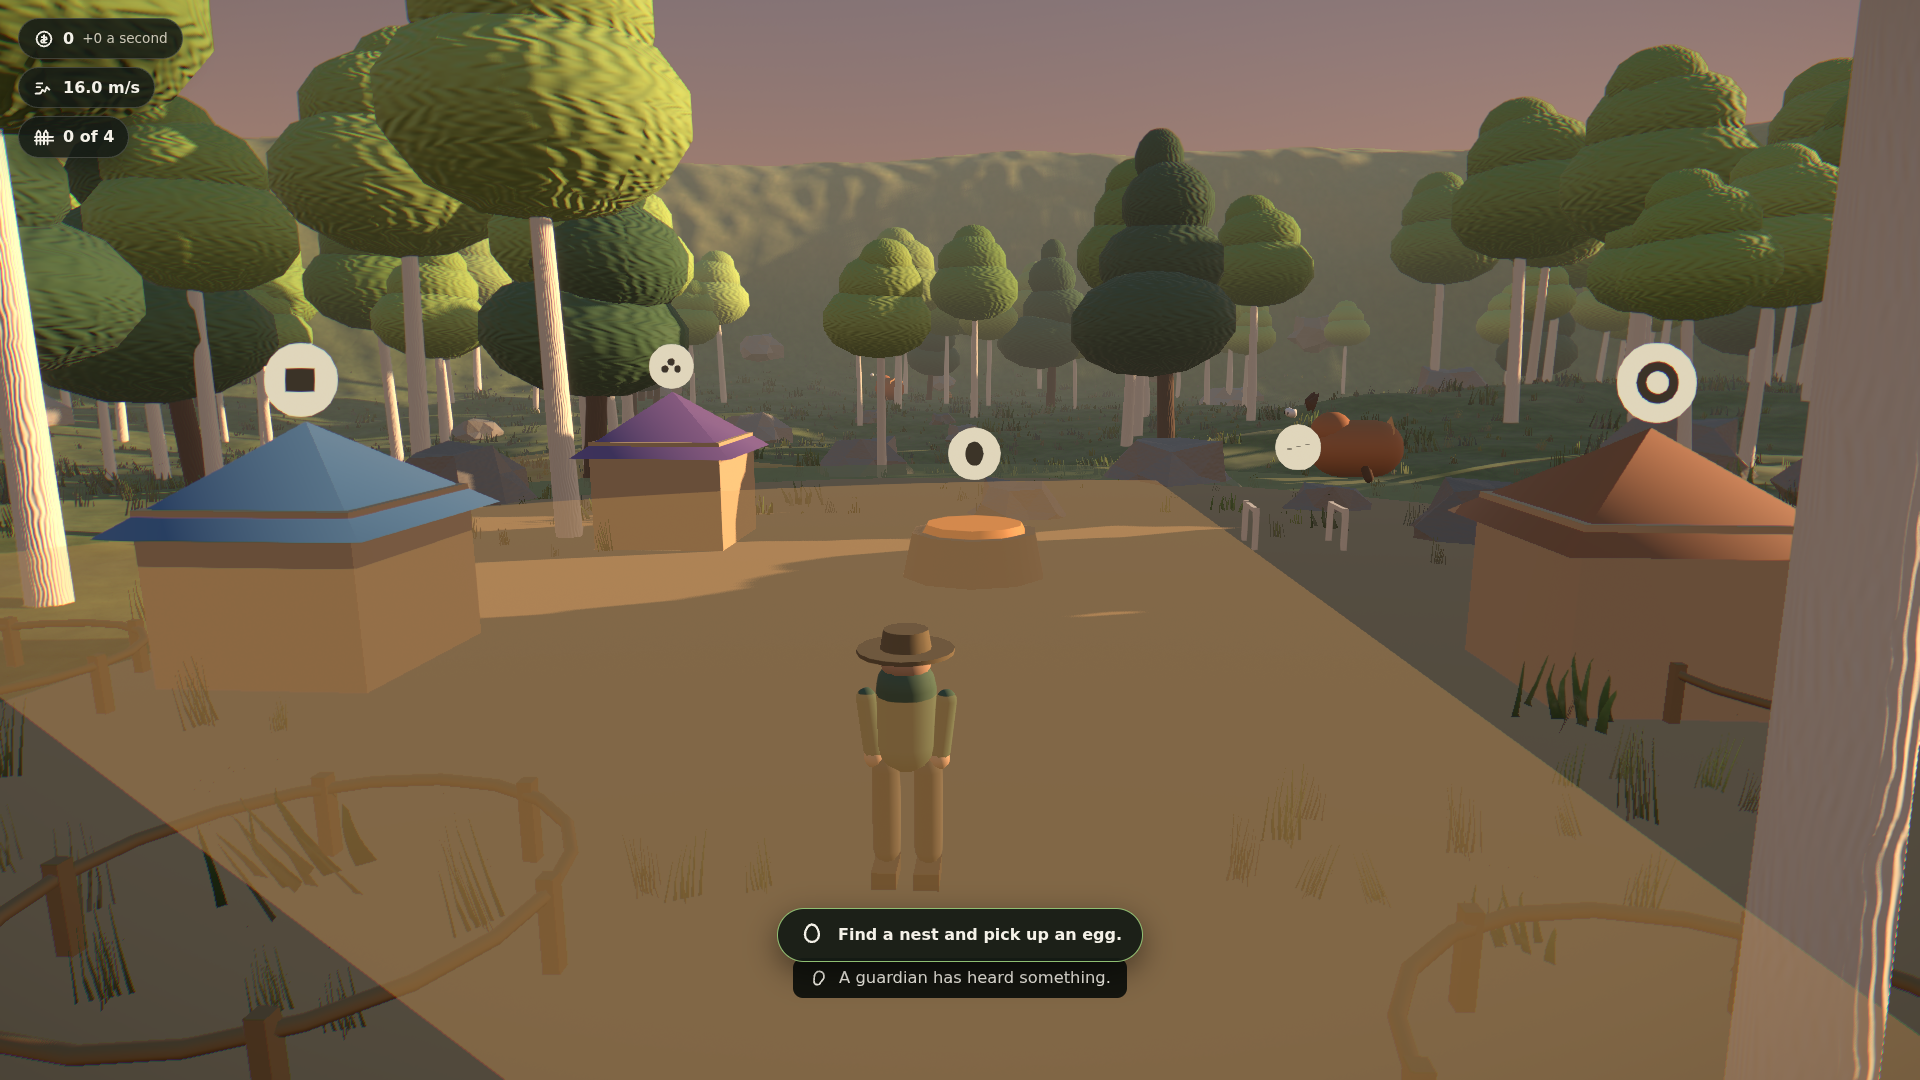
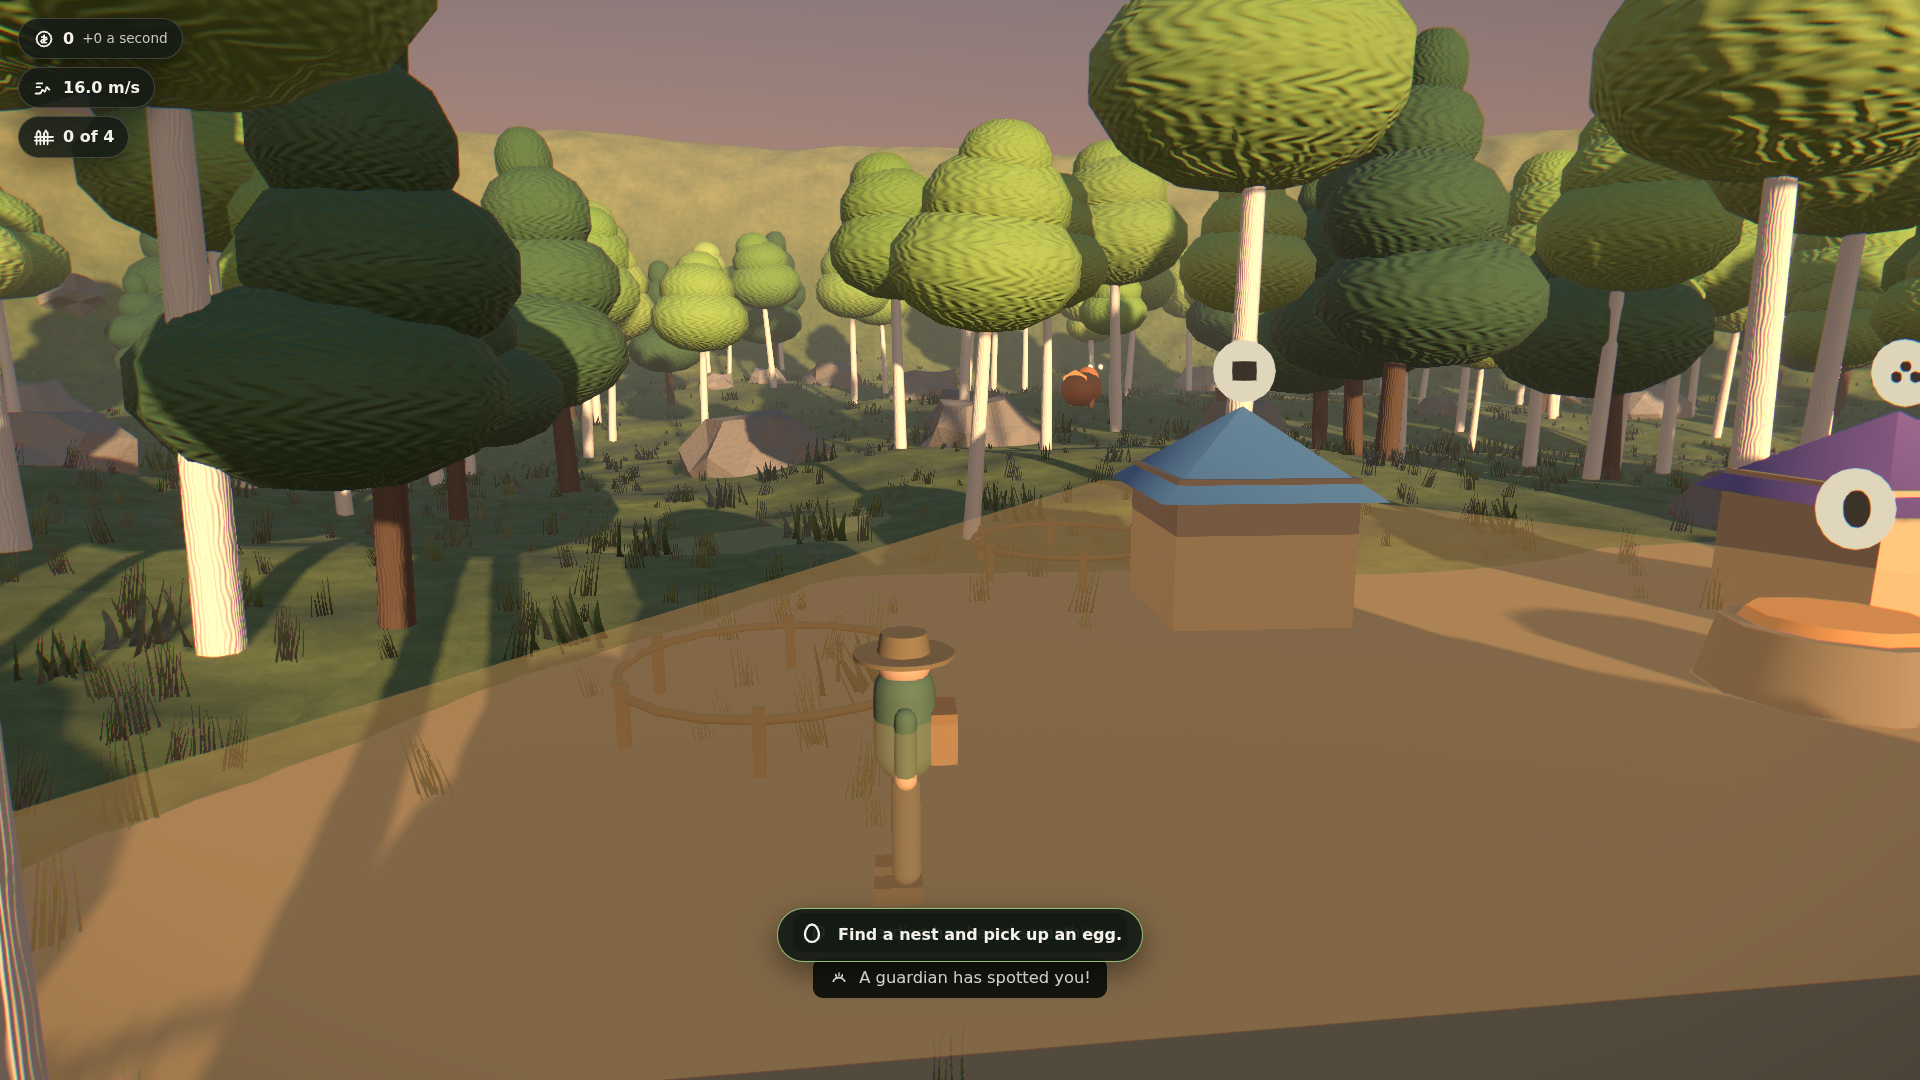
fix(render): read the screenshots and act on them
Ultra was flatter and milkier than High, which is the wrong way round
for the top preset. God rays screen-blend with an unclamped maximum, and
at dawn the sun is usually behind the camera -- which is exactly when
the shafts are worth having -- so with no visible source to radiate from
the effect laid a flat veil over the whole frame instead. Clamped well
under one it does what it is for and leaves the rest of the image alone.

The ranger's trousers were close enough in value to his hands that under
a low sun the whole lower body read as a single pale column. Darker
cloth, a wider stance, slightly bigger boots.

Also gave the screenshots their own timeout. The thirty-second action
timeout added so a missing element fails fast is shorter than a single
1080p Ultra frame takes to rasterise in software, which turned the one
legitimately slow call in the suite into a failure.

Claude-Session: https://claude.ai/code/session_01S8vggPtgU2EjQxnnYdffEr

diff --git a/src/render/player/PlayerAvatar.tsx b/src/render/player/PlayerAvatar.tsx
@@ -19,7 +19,10 @@ import { playerRef } from './playerRuntime';
 
 const SKIN = '#c9a183';
 const COAT = '#4f6b52';
-const TROUSER = '#5a5346';
+// Dark enough to stay a separate shape from the skin under a low sun. At
+// #5a5346 the legs washed out to the same value as the hands in dawn light and
+// the whole lower body read as one pale column.
+const TROUSER = '#3f3a30';
 const PACK = '#8a6a44';
 
 export function PlayerAvatar(): React.ReactElement {
@@ -114,23 +117,23 @@ export function PlayerAvatar(): React.ReactElement {
     <group ref={root}>
       <group ref={hips} position={[0, 0.72, 0]}>
         {/* Legs */}
-        <group ref={legL} position={[-0.11, 0, 0]}>
+        <group ref={legL} position={[-0.135, 0, 0]}>
           <mesh position={[0, -0.3, 0]} castShadow>
             <capsuleGeometry args={[0.075, 0.44, 4, 10]} />
             <meshStandardMaterial color={TROUSER} roughness={0.85} />
           </mesh>
           <mesh position={[0, -0.63, 0.04]} castShadow>
-            <boxGeometry args={[0.13, 0.09, 0.24]} />
+            <boxGeometry args={[0.15, 0.1, 0.26]} />
             <meshStandardMaterial color="#3a3128" roughness={0.7} />
           </mesh>
         </group>
-        <group ref={legR} position={[0.11, 0, 0]}>
+        <group ref={legR} position={[0.135, 0, 0]}>
           <mesh position={[0, -0.3, 0]} castShadow>
             <capsuleGeometry args={[0.075, 0.44, 4, 10]} />
             <meshStandardMaterial color={TROUSER} roughness={0.85} />
           </mesh>
           <mesh position={[0, -0.63, 0.04]} castShadow>
-            <boxGeometry args={[0.13, 0.09, 0.24]} />
+            <boxGeometry args={[0.15, 0.1, 0.26]} />
             <meshStandardMaterial color="#3a3128" roughness={0.7} />
           </mesh>
         </group>

diff --git a/tests/e2e/shots.spec.ts b/tests/e2e/shots.spec.ts
@@ -55,7 +55,16 @@ for (const preset of ['low', 'medium', 'high', 'ultra'] as const) {
     await stopMoving(page);
     await settle(page, 10);
 
-    const buffer = await page.screenshot({ path: `${SHOTS}/glade-${preset}.png` });
+    /*
+     * Its own timeout. The suite sets a thirty-second action timeout so a
+     * locator for a missing element fails fast, but a single 1080p frame at
+     * Ultra takes longer than that to rasterise in software -- this is the one
+     * place where a slow call is the expected behaviour rather than a hang.
+     */
+    const buffer = await page.screenshot({
+      path: `${SHOTS}/glade-${preset}.png`,
+      timeout: 300_000,
+    });
     const s = await sample(page);
     // eslint-disable-next-line no-console
     console.log(
@@ -79,7 +88,10 @@ for (const biome of ['glade', 'mirrormere', 'dunes'] as const) {
     await stopMoving(page);
     await settle(page, 10);
 
-    const buffer = await page.screenshot({ path: `${SHOTS}/biome-${biome}.png` });
+    const buffer = await page.screenshot({
+      path: `${SHOTS}/biome-${biome}.png`,
+      timeout: 300_000,
+    });
     expect(buffer.length, 'the frame looks empty').toBeGreaterThan(60_000);
     expect(errors, `console errors in ${biome}: ${errors.join(' | ')}`).toEqual([]);
   });

diff --git a/DECISIONS.md b/DECISIONS.md
@@ -264,6 +264,95 @@ This is the failure mode I most wanted to avoid on this project — a green test
 measuring something the game does not do — and it took an end-to-end test
 walking the actual world to catch it. Worth the cost of writing that test.
 
+## Running the gates against the real build
+
+Every one of these was found in the same afternoon, by the same act: making
+the end-to-end suite build the code it was about to test, and then actually
+running all of it rather than the two specs that were quick.
+
+### The store's clock was never wound
+
+`tick` in `state/store.ts` owns the incubator countdown, accrued play time,
+passive donations from placed creatures, caption expiry and the forty-five
+minute break reminder. It was defined, exported through the store's type, and
+called by nothing at all. Five features, all inert, none of them failing
+loudly — an incubator that never finishes just looks like an incubator you
+have not waited long enough for.
+
+A `StoreClock` in the render tree drives it now, with the delta clamped so a
+backgrounded tab cannot hand the incubator a minute of progress. The loop gate
+asserts that the number on screen actually moves, which is the assertion that
+was missing.
+
+### Nothing stood between the spawn and the first nest except everything
+
+The incubator sat at x=0, z=−1.5. Its own comment explained that it was placed
+there "so a child carrying their first egg home walks straight into it". They
+did — on the way _out_, at z=−0.55, where its collider stopped them dead.
+
+Moving it aside uncovered the next wall: a tree on the axis at z=−5.1. The
+foliage exclusion was a single circle around the sanctuary, and the route to
+nest zero ran straight out of it into the treeline.
+
+So the rule written into `CLAUDE.md` after the last round of this — nest zero
+sits eighteen metres directly ahead of the spawn — was true and still useless,
+because nothing guaranteed a walkable lane to get there. There is one now, the
+distance and the corridor width both live in `balance.ts` next to the pacing
+model that measures them, and a unit test asserts that no station stands in
+the lane. The next person to add a hut to the sanctuary cannot quietly close
+the only route out.
+
+### The gates were measuring the rasteriser
+
+CI renders this scene at well under one frame per second at 1080p, and the
+movement solver clamps its timestep to 1/20s. So `waitForTimeout(2000)` bought
+two frames — a tenth of a second of simulated movement — and every assertion
+downstream was reading a player who had barely started walking. "Sprinting
+reaches full Pace" was failing with a speed of exactly zero.
+
+The helpers count frames now, and a duration keeps its plain reading ("sprint
+for two seconds") by being honoured in frames rather than milliseconds. The
+gameplay specs also dropped to 640×360, because they are about the simulation
+and not the picture; the screenshot gate is where the resolution matters and
+it still runs at 1080p.
+
+### Three ways to write a test that cannot fail usefully
+
+Worth naming, because they were all in this suite at once:
+
+1. **A locator read with no timeout.** `textContent()` waits for the element,
+   and Playwright sets no default action timeout, so polling a prompt that is
+   not up yet blocks until the test's entire budget is gone and then reports
+   "target page closed". Twenty-five minutes to learn "not there yet".
+2. **A search step wider than the thing it is searching for.** The grab prompt
+   lives inside a 2.6 metre radius. A leg of eighteen metres sweeps past it
+   forever, and the log looks like a player who is stuck.
+3. **A write the app overwrites.** Three places wrote a save and reloaded, and
+   the app's own `pagehide` handler — there so a child who closes the tab keeps
+   their sanctuary — wrote the outgoing page's copy over the top each time. The
+   save round-trip test was testing a default save.
+
+### What the screenshots said this time
+
+Ultra was the milkier, flatter image than High — the wrong way round for the
+top preset. God rays screen-blended with an unclamped maximum, and the sun is
+behind the camera most of the time at dawn (which is exactly when you want the
+shafts), so with no visible source to radiate from the effect laid a flat veil
+over the frame. Clamped well under one, it now does what it is for.
+
+With that fixed and the AO pass back, the preset ladder reads correctly: Low is
+clean and flat, High has raking trunk shadows and contact occlusion, Ultra adds
+a denser understorey and a third shadow cascade. Dawn light through birch does
+now look like something.
+
+The ranger himself is the weakest thing on screen. Closing in on him shows a
+hat, a coat capsule, a satchel and two legs — competent, readable, and plainly
+a placeholder next to the environment around him. His trousers were also close
+enough in value to his hands that in full sun the lower body read as one pale
+column; darker cloth and a wider stance fixed that. A real character pass is
+the highest-value art work left, and it is in the roadmap rather than pretended
+about here.
+
 ## Performance — measuring the budget properly
 
 ### Reading the counters at all

diff --git a/README.md b/README.md
@@ -96,11 +96,17 @@ npm run build      # typecheck, then production build to dist/
 npm run preview    # serve the production build
 ```
 
-| Command        | What it checks                                                                  |
-| -------------- | ------------------------------------------------------------------------------- |
-| `npm test`     | Vitest: movement feel, guardian FSM, economy, pacing, save schema, cue registry |
-| `npm run lint` | ESLint + Prettier                                                               |
-| `npm run e2e`  | Playwright: smoke, movement, screenshots, cold start, network isolation         |
+| Command             | What it checks                                                                  |
+| ------------------- | ------------------------------------------------------------------------------- |
+| `npm test`          | Vitest: movement feel, guardian FSM, economy, pacing, save schema, cue registry |
+| `npm run typecheck` | `tsc -b` across every project in the solution                                   |
+| `npm run lint`      | ESLint + Prettier                                                               |
+| `npm run check`     | All three of the above, in that order                                           |
+| `npm run e2e`       | Playwright: smoke, movement, screenshots, cold start, loop, network, budget     |
+
+`npm run e2e` builds `dist/` as part of starting its server and never reuses a
+running one, so it always measures the code in the working tree. It renders
+through a software rasteriser, so the full suite takes about forty minutes.
 
 ---
 
